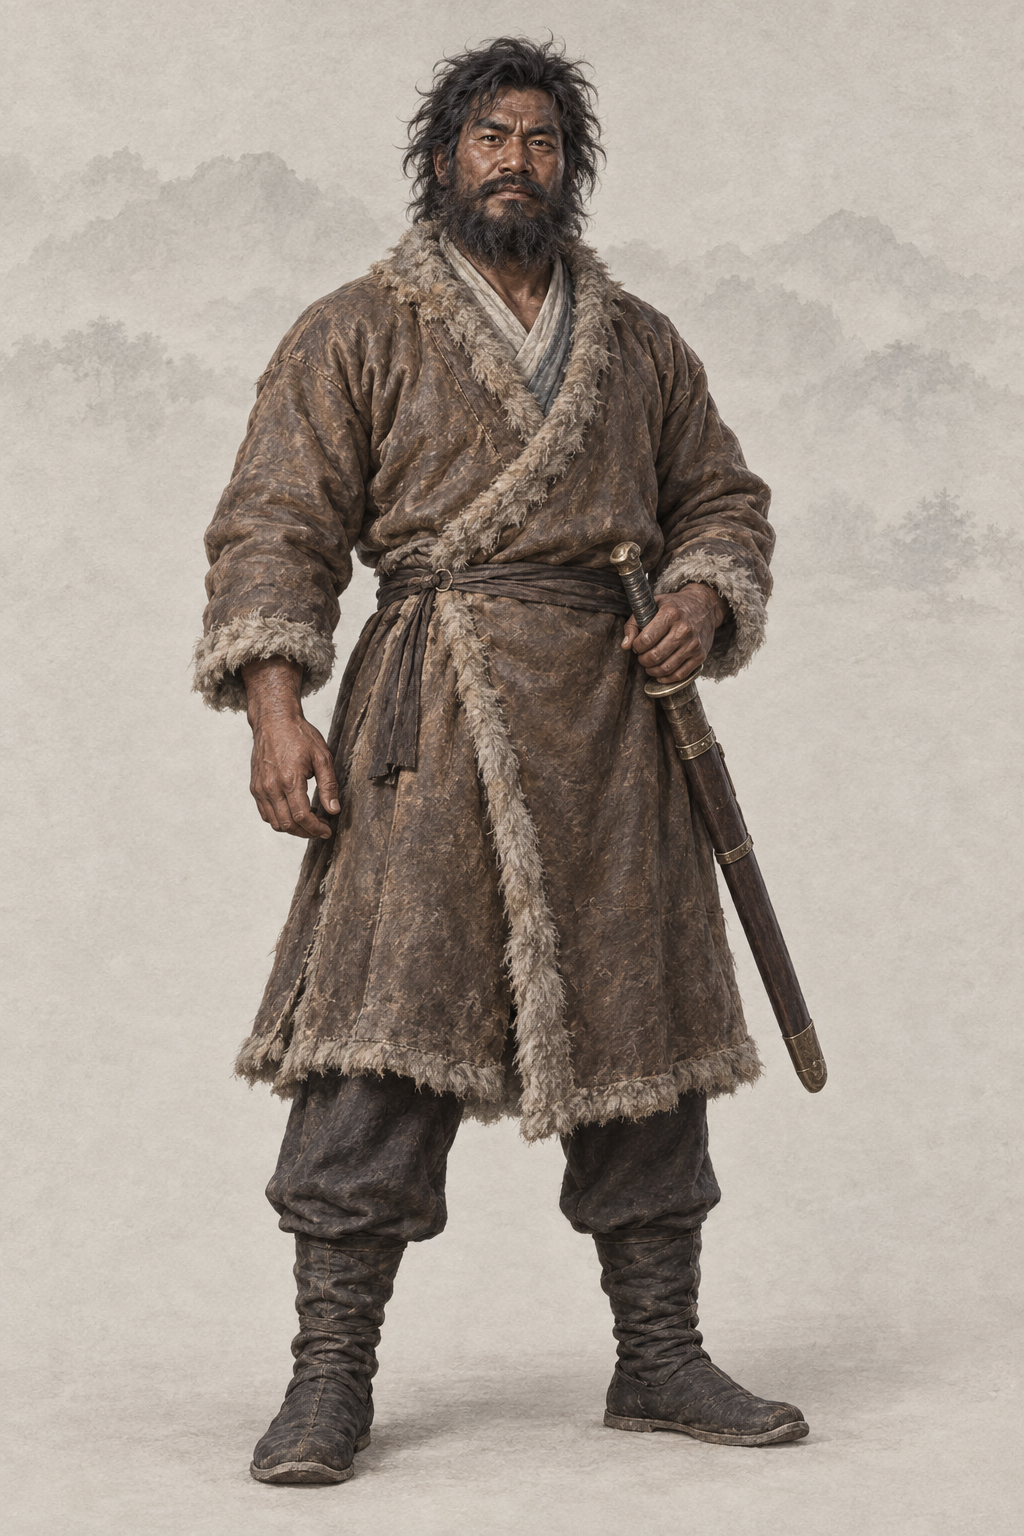
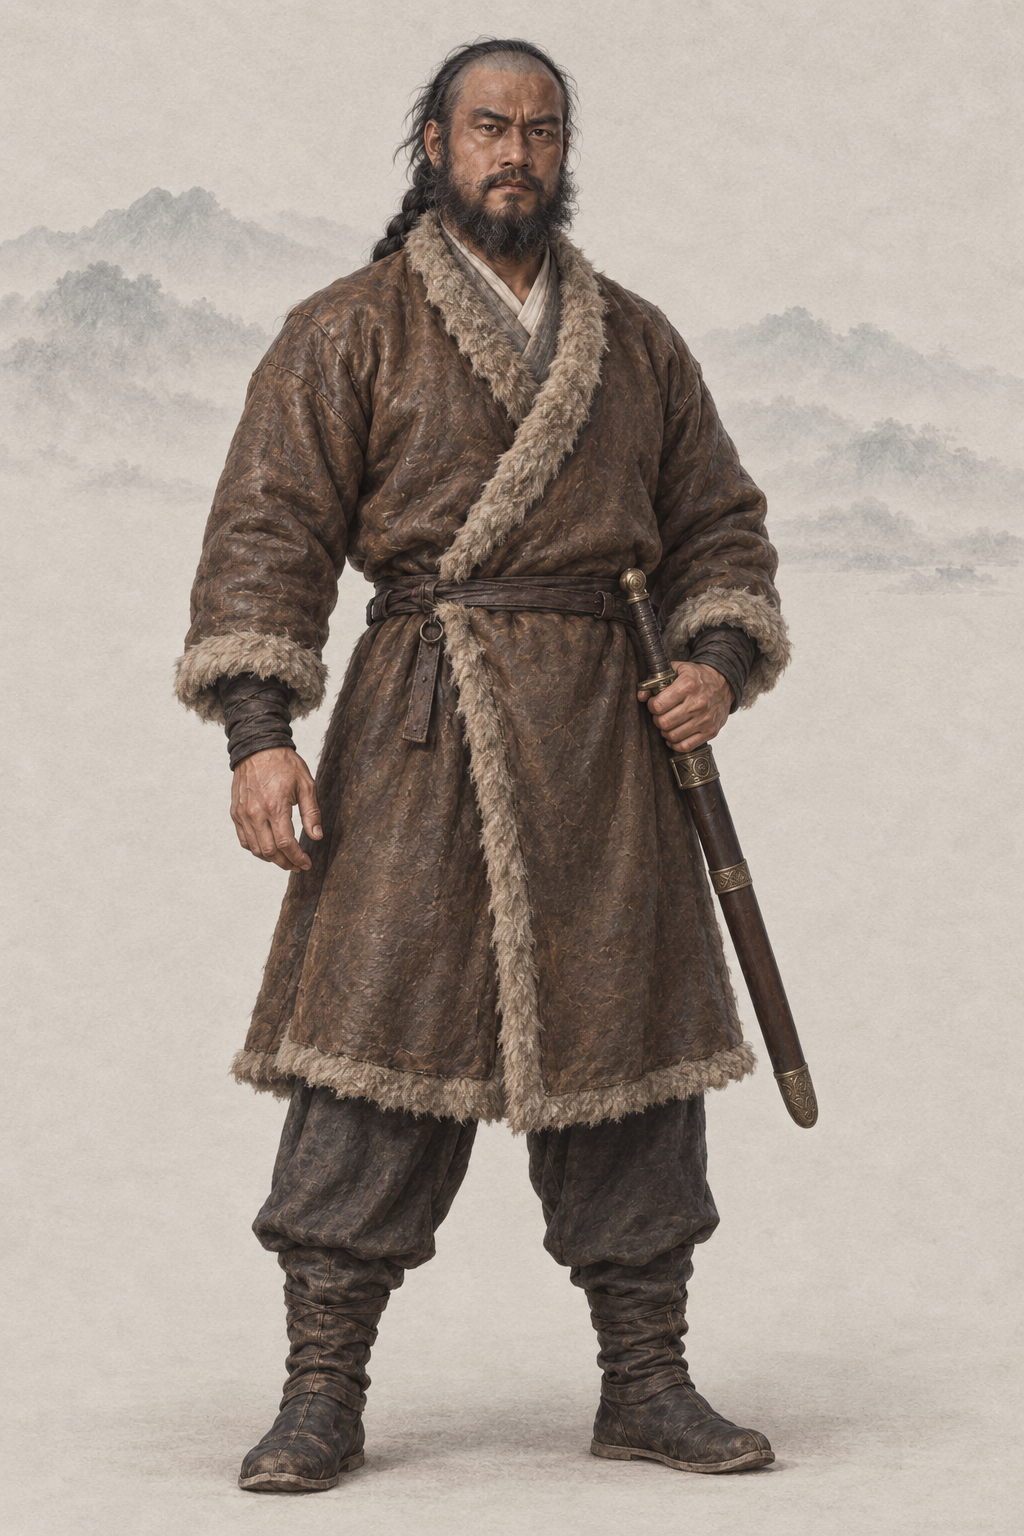
assets(character): por_npc_huyidao__ch14_prime_memory_base 胡一刀（codex · AR-32 补记修改 B：同一人锚点 + 基线）
作者 10-02：飞狐 / 雪山取 1991 台视版；以本轮新出的飞狐胡一刀为同一人锚点（同一回忆中的年纪）；清制剃额留辫（任务说明指定）。上传顺序：第 1 张为本轮新出的飞狐胡一刀立绘（同一人锚点，por_npc_huyidao__ch13_prime_memory_base），最后两张为同性别基线；r1；提示词写回，旧段留作历史。

diff --git a/assets/default/prompts/characters/ch14-xueshan/npc_huyidao.md b/assets/default/prompts/characters/ch14-xueshan/npc_huyidao.md
@@ -14,15 +14,16 @@ references:
   - path: .agents/coord/imagegen-reference/user_wangyuyan_style_20260930.png
     use: 第二输入仅暖浅灰纸底、极浅水墨远山薄雾及留白，不取女性面容、体型、衣装或姿态
 status: redo
-redo_reason: "主检出现图是英俊型男、短须整齐、肤色只是晒黑，原著胡一刀「一张黑漆脸皮，满脸浓髯，头发不结辫子蓬蓬松松堆在头上，当真凶恶」；重画为两书共用的胡一刀身份锚。"
 codex_prompt_rev: 2026-10-02
-classic_ref:
-  version: "无剧照（本机没有1991 年台视《雪山飞狐》（含飞狐外传情节）里该角色的剧照，经典造型用文字描写）"
-  stills: []
-  note: "本机没有该角色的经典版剧照，只用文字和两张同性别基线出图（AR-32）"
+redo_reason: 作者 10-02：飞狐 / 雪山取 1991 台视版；以本轮新出的飞狐胡一刀作同一人锚点重出；按任务说明改清制剃额留辫（原著写胡一刀「头发却不结辫」，待作者确认）
 reference_upload:
+- assets/default/character/male/ch13/por_npc_huyidao__ch13_prime_memory_base.png
 - assets/default/baseline/character/male/ref_npc_linghuchong__ch05_base01.png
 - assets/default/baseline/character/male/ref_npc_xiaofeng__ch01_base01.png
+classic_ref:
+  version: 1991 台视《雪山飞狐》（含飞狐外传情节；作者「取最经典的一版」，新浪 2007 称其为公认最经典版本）；孟飞饰胡一刀（经由本轮新出的飞狐胡一刀锚点传递）
+  stills: []
+  anchor: assets/default/character/male/ch13/por_npc_huyidao__ch13_prime_memory_base.png
 ---
 
 <!-- full-coverage-import:current-policy:v1 -->
@@ -35,6 +36,26 @@ reference_upload:
 # 胡一刀 · 《雪山飞狐》（ch14）
 
 ## Gemini 提示词
+
+> 2026-10-02 AR-32 补记修改 B（9 号出图员，codex exec · image_gen）：作者 10-02：飞狐 / 雪山取 1991 台视版；以本轮新出的飞狐胡一刀为同一人锚点（同一回忆中的年纪）；清制剃额留辫（任务说明指定）。上传顺序：第 1 张为本轮新出的飞狐胡一刀立绘（同一人锚点，por_npc_huyidao__ch13_prime_memory_base），最后两张为同性别画风基线（缩小版 JPEG）。参考图只借造型、气质与面部特征，画面按项目画风重绘、不复制照片。上一版保留在下一节作历史。
+
+```text
+生成一张 2:3 竖幅全身人物立绘：单人、单一视角、完整全身——头顶、双手、双脚和手中器物的两端都在画面内，四周留出自然空白；人物站姿自然，身体基本朝向正面，头部端正（不歪头、不仰不俯），镜头平视。
+【参考图】第 1 张参考图是本项目刚画好的胡一刀（同一段回忆、同一年纪）立绘（同一人锚点）：黝黑如漆的脸、浓眉大眼、满脸粗硬的浓髯、发式都以第 1 张为准，保持同一张脸，不要换成另一个人；衣服和姿势按下文文字重画，不要照搬它的构图和站姿。最后两张是本项目画风基线：画风、用色、光线、质感和暖浅灰纸底加淡水墨背景以它们为准，但不取基线人物的长相。
+【画风】写实手绘古风人物插画，与本项目写实武侠角色立绘同一画风，像功力深厚的画师用细腻笔触画出的真实人物。手绘插画质感，不是 CG 渲染：不要过度光滑的皮肤、完美对称的五官、塑料高光、过度锐利的发丝；保留自然的笔触和细微不完美。皮肤有真实质感——细小毛孔、细纹、晒痕和自然的左右不对称，不磨皮、不油亮；头发是一缕缕自然的发丝和少量碎发；布料看得出经纬纹理、厚薄和自然垂坠的褶皱，带穿用过的轻微旧化，但完整不破烂；整体设色低饱和、沉稳；柔和的自然光从左上方照来，明暗过渡自然，不打舞台光、轮廓光或美颜柔光。不是照片，不是三维渲染，不是动漫或游戏 CG，也不是油画（没有厚涂笔触和画布纹理）。
+【背景】不透明的暖浅灰色纸底，只在远处有极淡的水墨远山和薄雾，大面积留白；人物与背景明暗分明、轮廓边缘干净完整（后续要自动抠图），水墨和纸纹只在背景里，不侵入人物和衣服；脚下只有很淡的一点接触阴影。
+【人物】胡一刀，金庸《雪山飞狐》回忆中的辽东大侠，胡斐的父亲，约二十七年前在沧州与苗人凤比武、互换刀剑之前。
+【年龄与体态】三十多岁的男人，身材魁伟厚实，胸背宽阔，四肢粗壮，手掌粗大，约七个半头身。
+【经典造型】要一眼认出是辽东大侠胡一刀——黑漆般的脸、满脸钢针似的浓髯、腰挎单刀，乍看凶恶如门神，眼神却豪迈坦荡、透着亲切；粗豪而有英雄气。
+【面容】与第 1 张是同一张脸：黝黑如漆的脸；满脸浓密粗硬的络腮胡，从鬓角一直连到下巴和喉头；粗黑的浓眉，一双大眼睛圆睁、目光如电；鼻头宽实，阔口厚唇；豪迈坦荡。
+【发式】清代男子发式（按本作清代男主的统一规定）：前额剃过，但多日未修、长出一层青黑短茬；后脑一条粗而蓬松、编得很随便的黑辫子垂在背后；鬓发浓密蓬乱，几绺垂在额边。不戴帽子。
+【服饰】关外行旅的棕褐色厚皮袄（领口和襟边镶粗毛边），里面露出布衣领口（清式圆领大襟右衽），窄皮带束腰，棕黑色长裤，粗实的皮靴。
+【道具与姿态】左腰挂一柄朴素的中式单刀，微弧刀身完全收在暗棕色长鞘里；左手扶在鞘口，右手松开垂下。开胸站立，双足牢靠，豪迈大度，像随时肯替别人挡住危险。
+【不要】画面里不要任何文字、题款、印章、签名、水印、边框、分格或多视图；不要第二个人；不要幼态（童颜、娃娃脸、婴儿肥、儿童或少年身材、大头小身）；不要塑料感皮肤、磨皮美颜、网红脸（尖下巴大眼高鼻的模板脸）、过度对称、浓妆、偶像式打光、蜡像感；不要照片质感，不要像剧照照片、照片修图或拼贴，不要照搬剧照的背景、光影、构图和姿势；不要三维渲染或动漫大眼；不要歪头、斜镜头；不要多指、缺指（设定的伤残除外）、手与器物粘连或悬空；衣襟必须右衽（穿着者的左襟压在右襟上），不要左衽（设定为少数民族服制的除外），不要水平镜像；不要现代物品、发光特效、法阵或能量光。不要换成另一张脸；不要英俊型男、修剪整齐的短须；不要白净或只是微黑的皮肤；不要任何帽子；不要长剑、两把兵器、出鞘的刀；不要鬼怪化；不要日式服饰。
+【画风基线】随提示词上传的参考图里，最后两张是本项目的立绘画风基线：只参考它们的画风、用色、光线、质感和暖浅灰纸底加淡水墨的背景处理，整体画风必须与它们一致——精细写实的数字手绘插画，不是油画，不要厚涂笔触和画布纹理。基线图只取画风，不取长相：不要照搬基线图里人物的长相、年龄、发型、服饰和姿势。
+```
+
+## AR-32 补记修改前的 Gemini 提示词（6 号出图员版；2026-10-02 上午，历史，不再用于出图）
 
 > 2026-10-02 AR-32 经典剧照重出（6 号出图员，codex exec · image_gen 出图）：本机没有该角色剧照：只上传两张同性别基线，经典造型用文字描写。剧照只借鉴发型、服饰、配色、标志道具、气质与面部特征，重新绘制成项目画风，不照搬照片的构图、光影和姿势；人物一律成年；清代男子按清制剃额留辫（胡一刀按原著不结辫，保留）。提示词里不写演员名。上一版提示词保留在下一节作历史。
 
